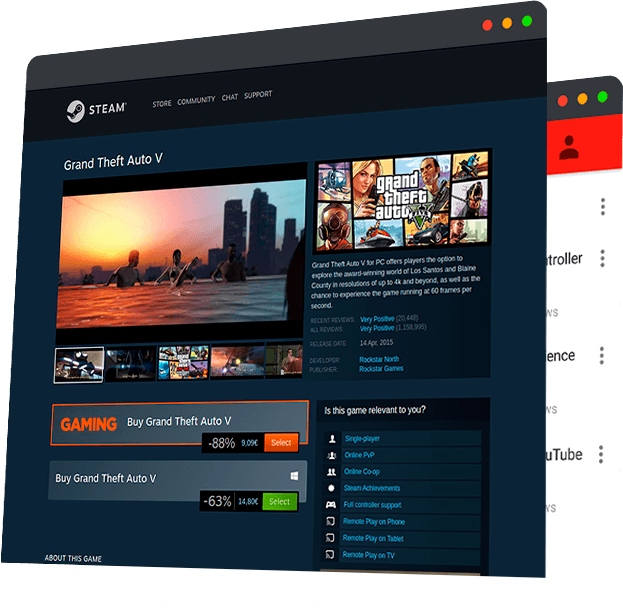
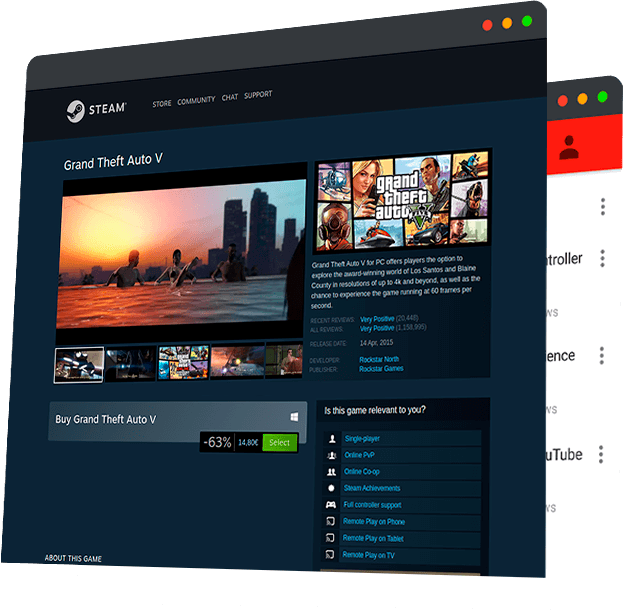
Minor changes for responsive things and change colors

Changed region(s): [[0.061, 0.653, 0.5185, 0.8396]]

diff --git a/src/pages/account/account.module.scss b/src/pages/account/account.module.scss
@@ -14,10 +14,41 @@
       }
     }
   }
+
+  @media screen and (max-width: 768px) {
+    > div {
+      > a {
+        &:last-of-type {
+          right: 0;
+        }
+        &:nth-last-of-type(2) {
+          right: 20px;
+        }
+      }
+    }
+  }
+
+  @media screen and (max-width: 468px) {
+    > div {
+      > a {
+        &:last-of-type {
+          right: 0;
+        }
+        &:nth-last-of-type(2) {
+          right: 15px;
+        }
+      }
+    }
+  }
 }
 
 .containerForms {
   display: flex;
   margin: 0 -10px;
   margin-top: 50px;
+
+  @media screen and (max-width: 768px) {
+    flex-direction: column;
+    gap: 30px;
+  }
 }

diff --git a/src/components/Shared/BarTrust/BarTrust.module.scss b/src/components/Shared/BarTrust/BarTrust.module.scss
@@ -11,6 +11,10 @@
   justify-content: center;
   height: 100%;
   padding: 40px 0;
+
+  @media screen and (max-width: 768px) {
+    height: 50%;
+  }
 }
 
 .block {
@@ -39,5 +43,35 @@
   span {
     font-size: 13px;
     color: $text-secondary;
+  }
+
+  @media screen and (max-width: 768px) {
+    i {
+      font-size: 25px;
+    }
+
+    h5 {
+      font-size: 16px;
+    }
+
+    span {
+      font-size: 12px;
+    }
+  }
+
+  @media screen and (max-width: 468px) {
+    padding: 0 15px;
+
+    i {
+      font-size: 20px;
+    }
+
+    h5 {
+      font-size: 14px;
+    }
+
+    span {
+      font-size: 10px;
+    }
   }
 }

diff --git a/src/components/Account/Settings/ChangeNameForm/ChangeNameForm.module.scss b/src/components/Account/Settings/ChangeNameForm/ChangeNameForm.module.scss
@@ -17,4 +17,27 @@
       margin-left: 15px !important;
     }
   }
+
+  @media screen and (max-width: 768px) {
+    flex-direction: column;
+
+    > div {
+      &:nth-child(1),
+      &:nth-child(2) {
+        width: 100%;
+        margin: 0 !important;
+      }
+
+      &:nth-child(2) {
+        margin-left: 0 !important;
+        margin-top: 15px !important;
+      }
+
+      &:nth-child(3) {
+        margin-left: 0 !important;
+        width: 100%;
+        margin-top: 15px !important;
+      }
+    }
+  }
 }

diff --git a/src/components/Game/Panel/Panel.module.scss b/src/components/Game/Panel/Panel.module.scss
@@ -4,6 +4,10 @@
   position: relative;
   display: flex !important;
   margin-top: -150px;
+
+  @media screen and (max-width: 468px) {
+    flex-direction: column;
+  }
 }
 
 .imgContainer {
@@ -12,6 +16,10 @@
 
   > img {
     border-radius: 15px;
+  }
+
+  @media screen and (max-width: 468px) {
+    width: 100%;
   }
 }
 
@@ -32,6 +40,12 @@
 
   > h2 {
     margin-bottom: 10px;
+  }
+
+  @media screen and (max-width: 468px) {
+    width: 100%;
+    margin-top: 10px;
+    padding-left: 0;
   }
 }
 

diff --git a/src/scss/semantic-ui/tab.scss b/src/scss/semantic-ui/tab.scss
@@ -21,9 +21,29 @@
       color: $primary;
     }
   }
+
+  @media screen and (max-width: 768px) {
+    a.item {
+      font-size: 13px;
+    }
+  }
+
+  @media screen and (max-width: 468px) {
+    a.item {
+      font-size: 10px;
+    }
+  }
 }
 
 .ui.tab.segment.active {
   background-color: transparent;
   padding: 20px 0 0 0;
+
+  @media screen and (max-width: 768px) {
+    padding: 4px 0 0 0;
+  }
+
+  @media screen and (max-width: 468px) {
+    padding: 1px 0 0 0;
+  }
 }

diff --git a/src/components/Shared/BannerAd/BannerAd.module.scss b/src/components/Shared/BannerAd/BannerAd.module.scss
@@ -27,6 +27,23 @@
   display: flex !important;
   justify-content: flex-end;
   padding-top: 30px;
+
+  img {
+    opacity: 0.7;
+  }
+
+  @media screen and (max-width: 768px) {
+    padding-left: 200px;
+    img {
+      opacity: 0.5;
+    }
+  }
+
+  @media screen and (max-width: 468px) {
+    img {
+      visibility: hidden;
+    }
+  }
 }
 
 .infoContainer {

diff --git a/src/components/Account/Settings/ChangeEmailForm/ChangeEmailForm.module.scss b/src/components/Account/Settings/ChangeEmailForm/ChangeEmailForm.module.scss
@@ -1,4 +1,12 @@
 .form {
   width: 50%;
   padding: 0 10px;
+
+  @media screen and (max-width: 768px) {
+    width: 100%;
+  }
+
+  @media screen and (max-width: 468px) {
+    width: 100%;
+  }
 }

diff --git a/src/components/Account/Settings/ChangePasswordForm/ChangePasswordForm.module.scss b/src/components/Account/Settings/ChangePasswordForm/ChangePasswordForm.module.scss
@@ -1,4 +1,11 @@
 .form {
   width: 50%;
   padding: 0 10px;
+
+  @media screen and (max-width: 768px) {
+    width: 100%;
+  }
+  @media screen and (max-width: 468px) {
+    width: 100%;
+  }
 }

diff --git a/src/scss/colors.scss b/src/scss/colors.scss
@@ -1,5 +1,5 @@
-$primary: #ff5400;
-$primary-hover: #ffa700;
+$primary: #0054ff;
+$primary-hover: #00a7ff;
 
 $text-primary: #fff;
 $text-secondary: #909090;
